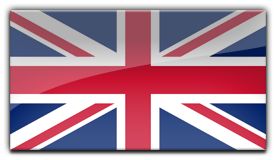
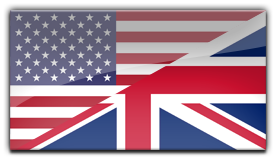
Flags and language now canonical BCP 47

diff --git a/Runtime/Code/Loca/UiLanguageToggle.cs b/Runtime/Code/Loca/UiLanguageToggle.cs
@@ -1,4 +1,5 @@
 using UnityEngine;
+using UnityEngine.Serialization;
 using UnityEngine.UI;
 
 namespace GuiToolkit
@@ -12,8 +13,6 @@ namespace GuiToolkit
 		[SerializeField]
 		[HideInInspector]
 		private string m_languageToken;
-		
-		[SerializeField] private bool m_displayEnAsEnUs;
 
 		public string Language
 		{
@@ -66,8 +65,7 @@ namespace GuiToolkit
 #endif
 		private void SetNationalFlag()
 		{
-			var lang = m_displayEnAsEnUs && m_languageToken.Equals("en") ? "en_us" : m_languageToken;
-			m_flagImage.sprite = Resources.Load<Sprite>("Flags/" + lang );
+			m_flagImage.sprite = Resources.Load<Sprite>("Flags/" + m_languageToken );
 		}
 
 	}

diff --git a/.Dev-App/Unity/Assets/Demo/DemoSettings.cs b/.Dev-App/Unity/Assets/Demo/DemoSettings.cs
@@ -16,13 +16,13 @@ public class DemoSettings : LocaClass
 			// Language
 			new PlayerSetting
 			(
-				__("General"), __("Language"), "", "en_us", 
+				__("General"), __("Language"), "", "en", 
 				new PlayerSettingOptions
 				{
 					Type = EPlayerSettingType.Language,
 					Key = LocaManager.PLAYER_PREFS_KEY,
 					Titles = new List<string> {"Dev", "English", "Deutsch", "русский", "Lolspeak"},
-					StringValues = new List<string> {"dev", "en_us", "de", "ru", "lol" },
+					StringValues = new List<string> {"dev", "en", "de", "ru", "lol" },
 					IsLocalized = false,
 				}
 			),
